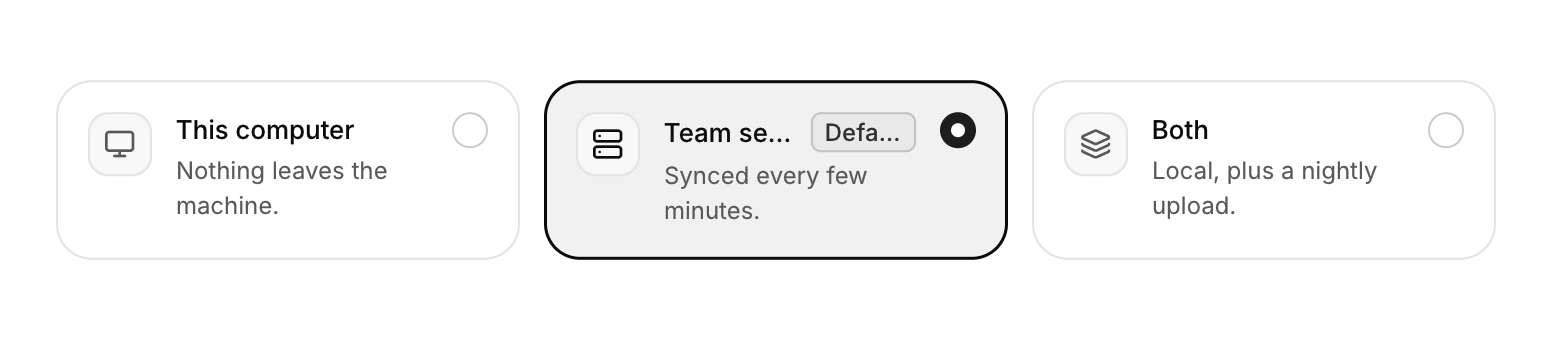
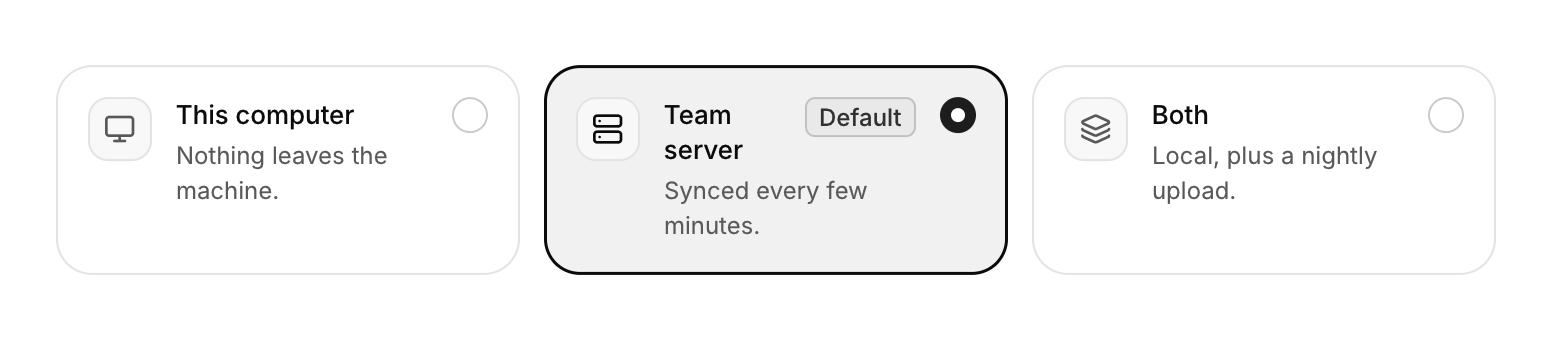
Radio card titles wrap instead of truncating next to a badge

diff --git a/src/cui_extras.c b/src/cui_extras.c
@@ -93,10 +93,12 @@ bool cui_radio_cards_ex(cui_ctx *ui, const char *id_str, const cui_choice *choic
         ui->nodes[col].gap = 3; ui->nodes[col].w = CUI_FILL;
         cui__open(ui, col);
         int tr = cui__node_new(ui, 0);
-        ui->nodes[tr].dir = CUI_ROW; ui->nodes[tr].gap = 8;
+        ui->nodes[tr].dir = CUI_ROW; ui->nodes[tr].gap = 8; ui->nodes[tr].w = CUI_FILL; ui->nodes[tr].align = CUI_ALIGN_START;
         cui__open(ui, tr);
-        int t = cui__text_node(ui, choices[k].title, -1, CUI_FONT_MEDIUM, cui__fs(ui, ui->theme.text_body), CUI_C(ui, FOREGROUND), false);
+        /* the title wraps rather than truncates, so a badge beside it never squeezes either */
+        int t = cui__text_node(ui, choices[k].title, -1, CUI_FONT_MEDIUM, cui__fs(ui, ui->theme.text_body), CUI_C(ui, FOREGROUND), true);
         ui->nodes[t].line_height = 1.35f;
+        ui->nodes[t].w = CUI_FILL;
         if (choices[k].badge) {
             cui_badge_opts bo;
             memset(&bo, 0, sizeof bo);
